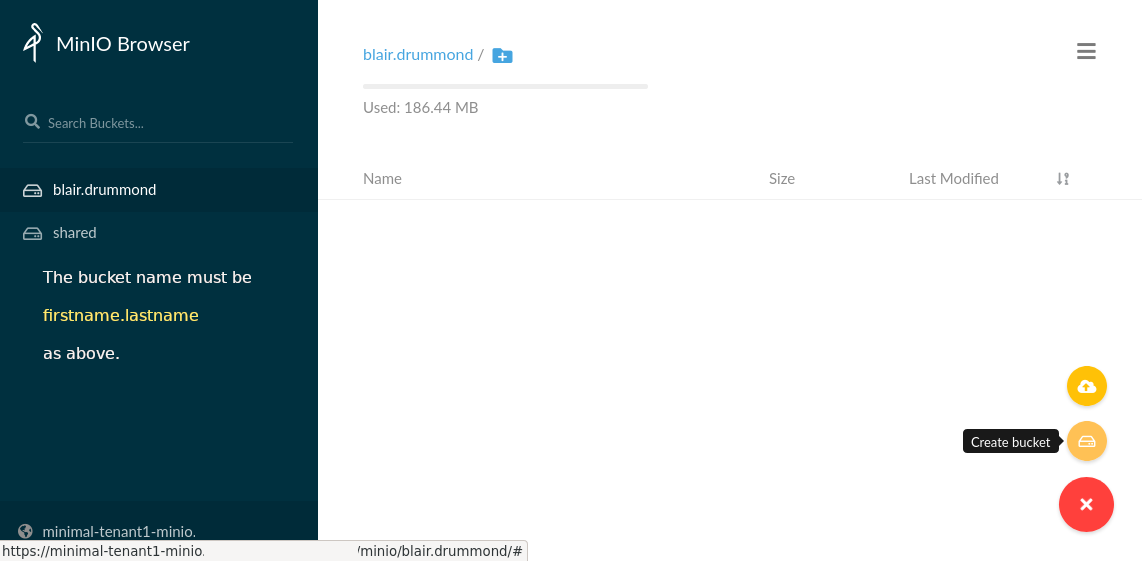
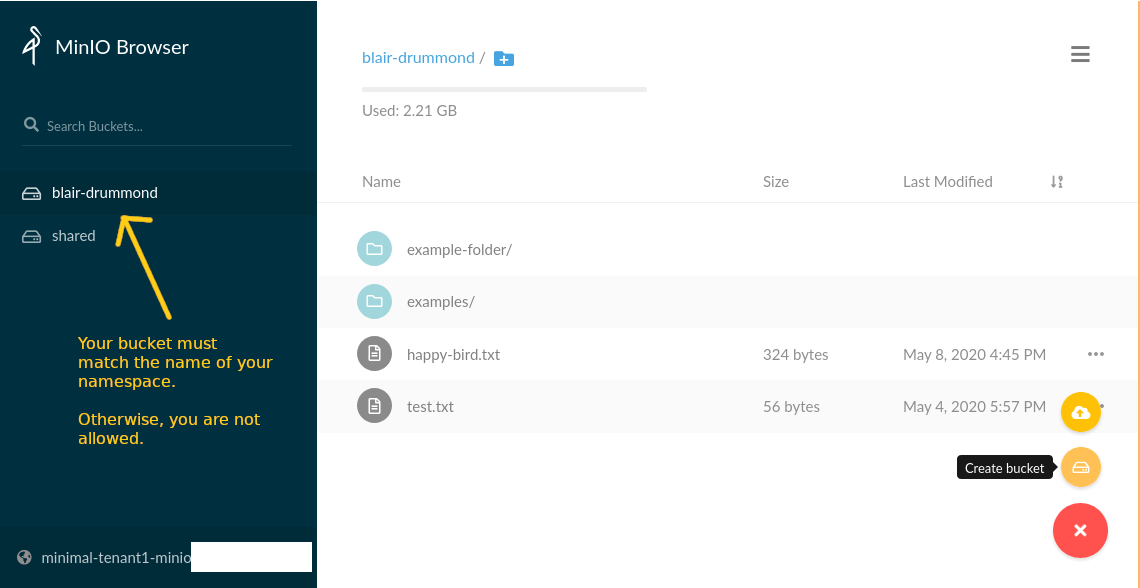
fix: change bucket naming convention from first.last to the first-last

diff --git a/docs/en/Storage.md b/docs/en/Storage.md
@@ -69,7 +69,7 @@ in, simply use **OpenID** as below
 ![Buckets / Object Storage](images/minio_self_serve_login.png)
 
 Once you are logged in, you are allowed to create a personal bucket with the
-format `firstname.lastname`. Picture below.
+format `firstname-lastname`. Picture below.
 
 
 ![Buckets / Object Storage](images/minio_self_serve_bucket.png)

diff --git a/docs/fr/Stockage.md b/docs/fr/Stockage.md
@@ -69,7 +69,7 @@ in, simply use **OpenID** as below
 ![Buckets / Object Storage](images/minio_self_serve_login.png)
 
 Once you are logged in, you are allowed to create a personal bucket with the
-format `firstname.lastname`. Picture below.
+format `firstname-lastname`. Picture below.
 
 
 ![Buckets / Object Storage](images/minio_self_serve_bucket.png)
